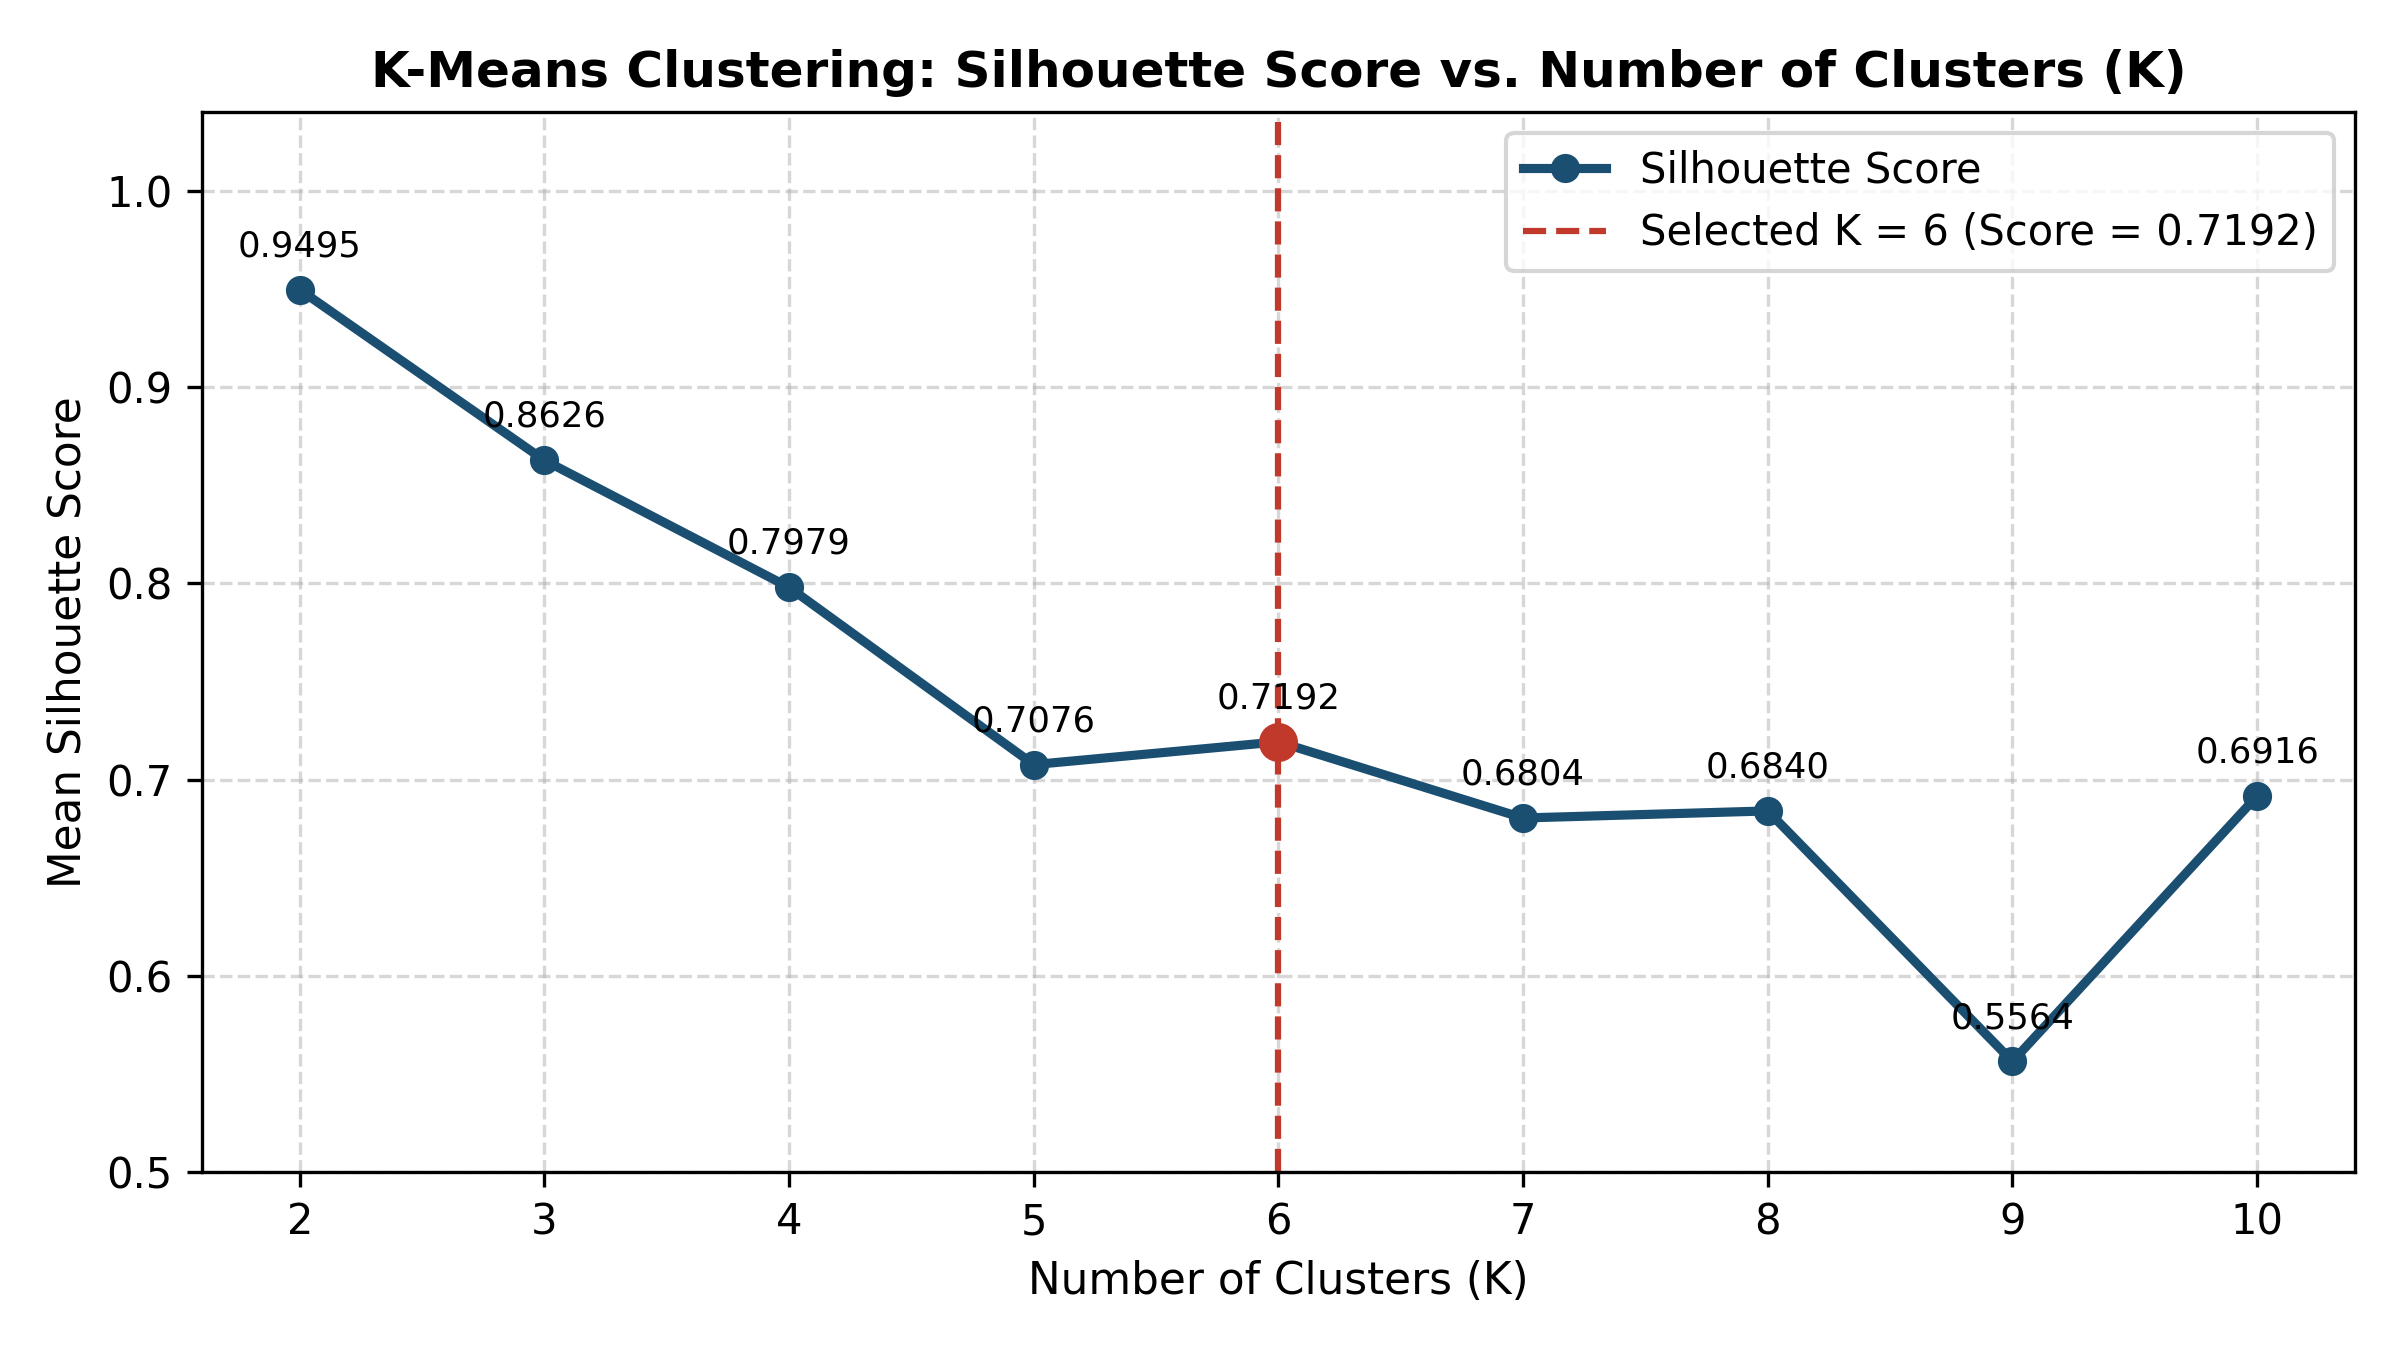
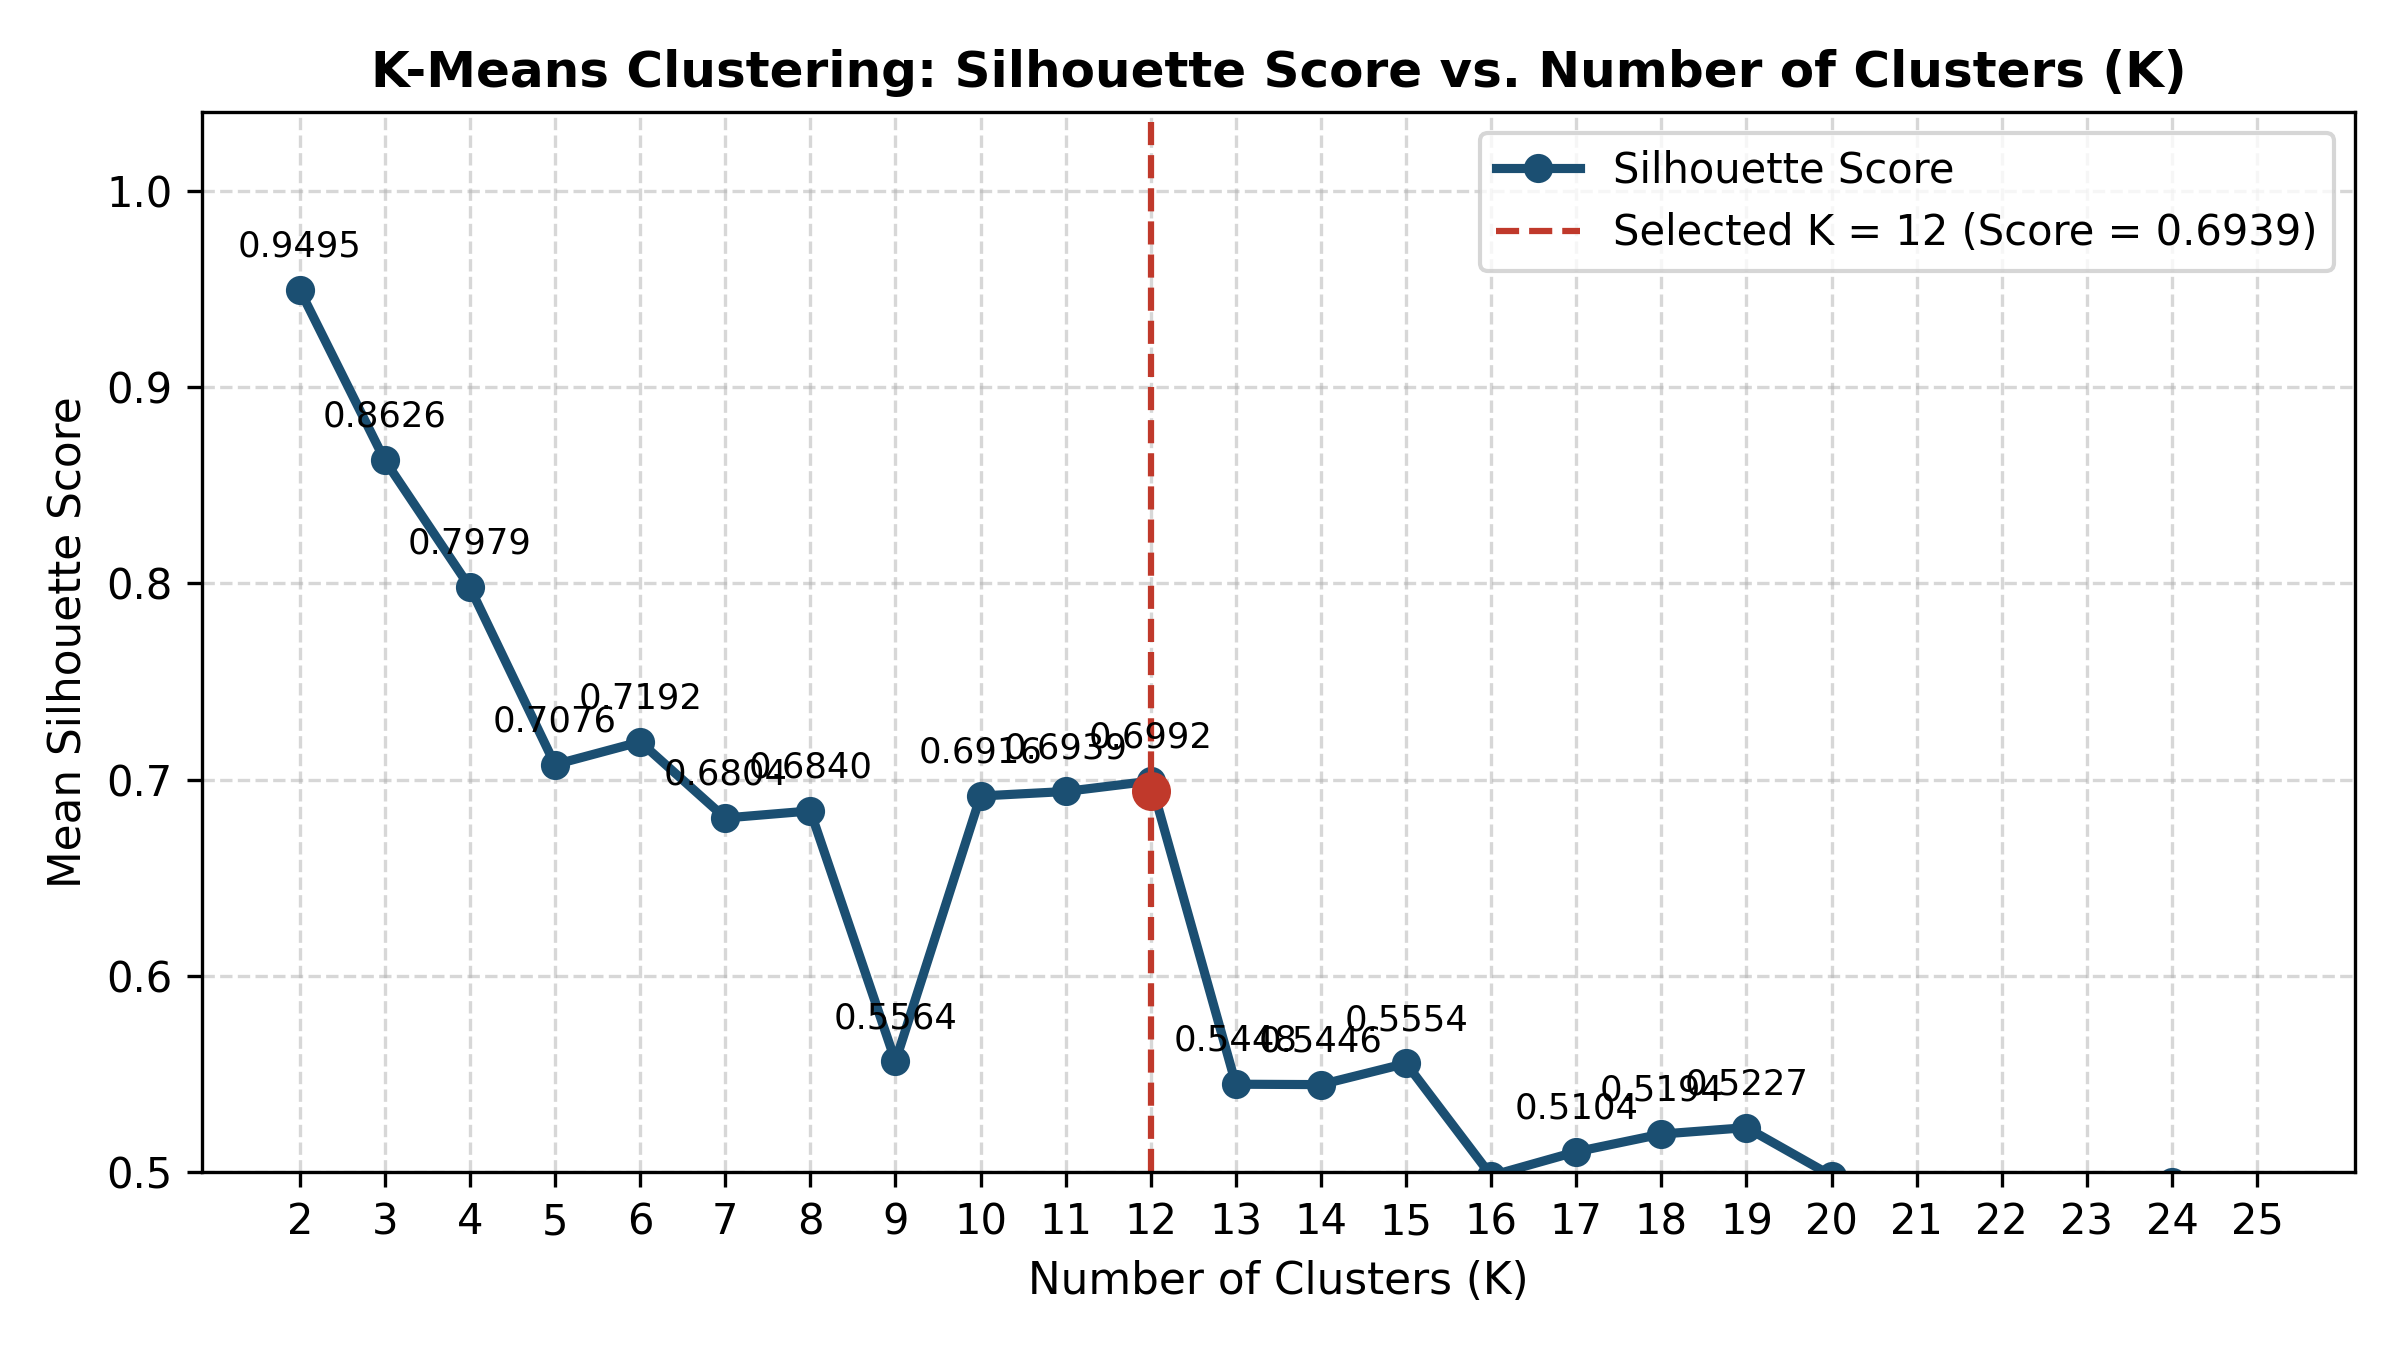
update k-means k value

diff --git a/evaluation/evaluate_kmeans.py b/evaluation/evaluate_kmeans.py
@@ -6,13 +6,36 @@ import numpy as np
 os.makedirs("figures", exist_ok=True)
 
 # 2. K-Means Silhouette vs K plot data
-k_vals = [2, 3, 4, 5, 6, 7, 8, 9, 10]
-sil_scores = [0.9495, 0.8626, 0.7979, 0.7076, 0.7192, 0.6804, 0.6840, 0.5564, 0.6916]
+k_vals = [2, 3, 4, 5, 6, 7, 8, 9, 10, 11, 12,13,14,15,16,17,18,19,20,21,22,23,24,25]
+sil_scores = [0.9495, 
+              0.8626, 
+              0.7979, 
+              0.7076, 
+              0.7192, 
+              0.6804, 
+              0.6840, 
+              0.5564, 
+              0.6916,
+              0.6939,
+              0.6992,
+              0.5448,
+              0.5446,
+              0.5554,
+              0.4982,
+              0.5104,
+              0.5194,
+              0.5227,
+              0.4982,
+              0.4834,
+              0.4834,
+              0.4733,
+              0.495,
+              0.4732]
 
 plt.figure(figsize=(8, 4.5))
 plt.plot(k_vals, sil_scores, marker='o', linewidth=2.2, color='#1b4f72', label='Silhouette Score')
-plt.axvline(x=6, color='#c0392b', linestyle='--', linewidth=1.5, label='Selected K = 6 (Score = 0.7192)')
-plt.scatter([6], [0.7192], color='#c0392b', zorder=5, s=70)
+plt.axvline(x=12, color='#c0392b', linestyle='--', linewidth=1.5, label='Selected K = 12 (Score = 0.6939)')
+plt.scatter([12], [0.6939], color='#c0392b', zorder=11, s=70)
 
 # 3. Add silhouette score text labels on top of every data point
 for k, s in zip(k_vals, sil_scores):

diff --git a/algorithms/k_means.py b/algorithms/k_means.py
@@ -118,10 +118,9 @@ def run_kmeans(X, feature_columns, regions, causes):
     cluster_table_data = []
     for c_idx in range(k): 
         member_indices = [i for i, c in enumerate(assignments) if c == c_idx]
-        if len(member_indices) < 100:  # Focus on small/outlier clusters
-            print(f"\nCluster {c_idx} (Size: {len(member_indices)}):")
-            for idx in member_indices[:5]: # Show first 5 examples
-                print(f"  - Region: {regions[idx]} | Cause: {causes[idx]}")
+        print(f"\nCluster {c_idx} (Size: {len(member_indices)}):")
+        for idx in member_indices[:5]: # Show first 5 examples
+            print(f"  - Region: {regions[idx]} | Cause: {causes[idx]}")
 
         member_count = assignments.count(c_idx)
         centroid_vec = centroids[c_idx]
@@ -134,5 +133,5 @@ def run_kmeans(X, feature_columns, regions, causes):
 
     print(f"\nIteration stages until convergence: {iterations}")
     print("\nCluster Details:")
-    print(tabulate(cluster_table_data, headers=["Cluster Label", "Count of Records", "Top 5 Features (Age/Sex Bracket)"], tablefmt="plain"))
+    print(tabulate(cluster_table_data, headers=["Cluster Label", "Count of Records", "Top 3 Features (Age/Sex Bracket)"], tablefmt="plain"))
     print(f"\nOverall Silhouette score: {silhouette_score:.4f}")
